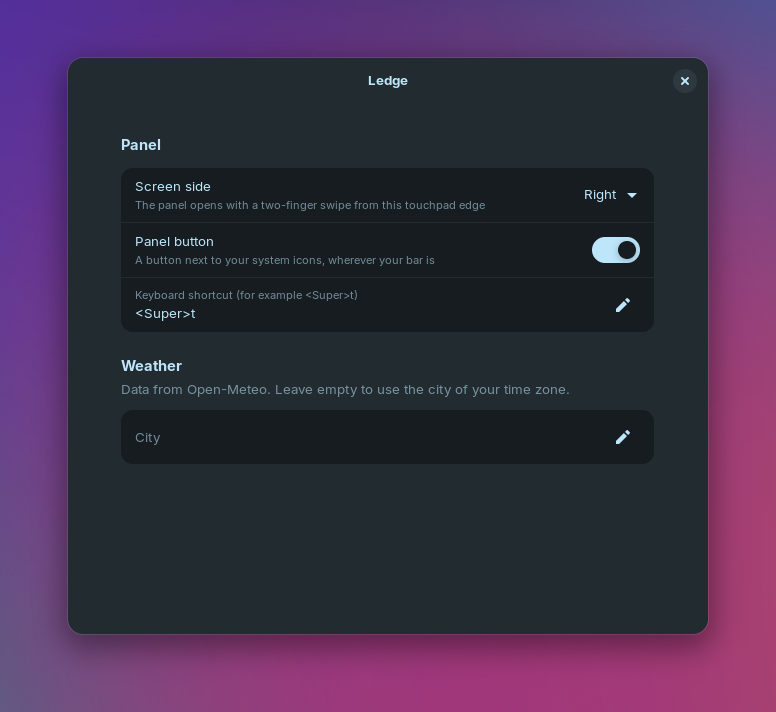
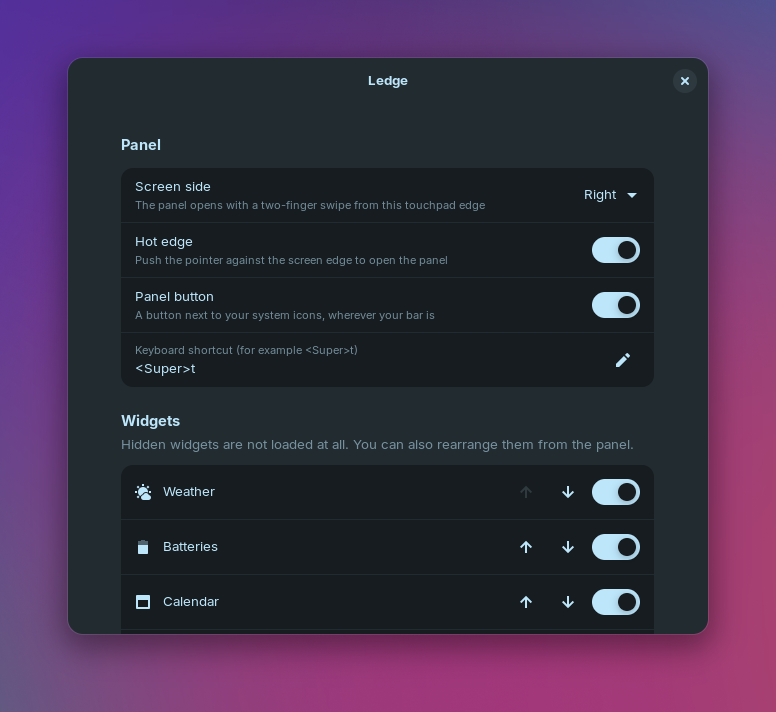
docs: 0.4 features, edit-mode screenshot, headless image capture
Screenshots now come from a headless shell (scriptable pointer, nothing
on screen) with a private PipeWire, so the developer's live microphone
indicator no longer leaks into the images. Edit mode is captured with
animations off to avoid mid-wiggle ghosting.

diff --git a/tools/screenshots/capture.py b/tools/screenshots/capture.py
@@ -1,4 +1,4 @@
-"""Drives nested GNOME Shell sessions and writes the README images.
+"""Drives headless GNOME Shell sessions and writes the README images.
 Run through tools/screenshots/run.sh, which sets up the isolated profile."""
 
 import math
@@ -36,6 +36,20 @@ def emit(name, fmt=None, *args):
     bus.flush_sync(None)
 
 
+def targets():
+    reply = bus.call_sync("org.gnome.Shell", "/io/github/gabrielgirardi/Ledge/Dev",
+                          "io.github.gabrielgirardi.Ledge.DevQuery1", "GetState", None,
+                          GLib.VariantType("(s)"), Gio.DBusCallFlags.NONE, 5000, None)
+    import json
+    return json.loads(reply.unpack()[0])["targets"]
+
+
+def click(name):
+    x, y, _w, _h = targets()[name]
+    emit("Click", "(ii)", x, y)
+    time.sleep(0.8)
+
+
 def shot(name):
     path = raw / f"{name}.png"
     path.unlink(missing_ok=True)
@@ -61,16 +75,23 @@ def wayland_sockets():
 
 def start_shell(lang):
     before = wayland_sockets()
+    # A private PipeWire directory keeps the developer's real audio devices
+    # (and a live microphone indicator) out of the images.
+    pipewire = work / "pipewire"
+    pipewire.mkdir(exist_ok=True)
     env = dict(os.environ, LANGUAGE=lang, LC_ALL=f"{lang}.UTF-8", LEDGE_DEV="1",
+               PIPEWIRE_RUNTIME_DIR=str(pipewire), PULSE_RUNTIME_PATH=str(pipewire),
                MUTTER_DEBUG_DUMMY_MODE_SPECS=f"{W}x{H}")
-    shell = subprocess.Popen(["gnome-shell", "--nested", "--wayland"], env=env,
+    # Headless, not nested: the pointer is ours to move, and no window
+    # appears on the developer's screen.
+    shell = subprocess.Popen(["gnome-shell", "--headless", "--wayland", "--virtual-monitor", f"{W}x{H}"], env=env,
                              stdout=subprocess.DEVNULL, stderr=open(work / f"shell-{lang}.log", "w"))
     for _ in range(120):
         time.sleep(0.5)
         info = subprocess.run(["gnome-extensions", "info", UUID], capture_output=True, text=True).stdout
         if "State: ACTIVE" in info:
             # D-Bus-activated apps (the preferences window) must open on the
-            # nested display, not on the session the script was started from.
+            # headless display, not on the session the script was started from.
             socket = sorted(wayland_sockets() - before)[-1]
             subprocess.run(["dbus-update-activation-environment", f"WAYLAND_DISPLAY={socket}", "DISPLAY="],
                            check=True)
@@ -127,8 +148,18 @@ try:
     # English, right edge: hero, gesture animation, preferences.
     gset("org.gnome.shell.extensions.ledge", "side", "'right'", ledge=True)
     shell = start_shell("en_US")
-    show(1, 1.5)
+    emit("Toggle")
+    time.sleep(2)
     hero = shot("hero")
+    # A still frame of edit mode: mid-wiggle captures show ghosted cards.
+    gset("org.gnome.desktop.interface", "enable-animations", "false")
+    click("edit")
+    time.sleep(0.8)
+    editing = shot("edit")
+    gset("org.gnome.desktop.interface", "enable-animations", "true")
+    emit("Key", "(u)", 65307)  # leave edit mode
+    time.sleep(0.6)
+    show(1, 0.5)
     frames, durations = [], []
     for p, ms in gesture_curve():
         show(p, 0.03)
@@ -153,6 +184,7 @@ finally:
 
 hero.save(images / "hero.jpg", quality=90, optimize=True, progressive=True)
 hero.crop((W - 470, 0, W, H)).save(images / "panel.png", optimize=True)
+editing.crop((W - 470, 0, W, H)).save(images / "edit-mode.png", optimize=True)
 left.crop((0, 0, 470, H)).save(images / "left-pt-br.png", optimize=True)
 
 box = ImageChops.difference(prefs_full, desktop).getbbox()

diff --git a/README.md b/README.md
@@ -45,8 +45,9 @@ Swipe in from the touchpad edge and the panel follows your fingers. Let go
 past halfway, or flick quickly, and a spring finishes the motion. Swipe back,
 press <kbd>Esc</kbd>, or click anywhere outside the panel to close it.
 
-You can also press <kbd>Super</kbd>+<kbd>T</kbd> or click the Ledge button next to your
-system icons. The panel opens on the screen you are using.
+No touchpad, or no visible bar? Push the pointer against the screen edge, press
+<kbd>Super</kbd>+<kbd>T</kbd>, or click the Ledge button next to your system icons. The
+panel opens on the screen you are using.
 
 ## What's inside
 
@@ -86,6 +87,17 @@ time are not counted.
 </td>
 </tr>
 </table>
+
+### Make it yours
+
+Click the pencil in the panel's corner. The cards start to wiggle. Drag a card
+to move it, tap <kbd>−</kbd> to hide it, and bring it back from **Add widgets**.
+On the keyboard, focus a card and press <kbd>↑</kbd> or <kbd>↓</kbd>. A hidden
+widget is not loaded at all, so it costs nothing.
+
+<div align="center">
+<img src="docs/images/edit-mode.png" alt="Edit mode: cards wiggle, each with a red minus button, and a Done button in the corner" width="300">
+</div>
 
 <table>
 <tr>
@@ -139,7 +151,9 @@ ledge@gabrielgirardi.github.io`, or open the Extensions app.
 | Setting | Default | Notes |
 |---|---|---|
 | Screen side | Right | Only a swipe from this touchpad edge opens the panel. |
+| Hot edge | On | Push the pointer against the screen edge to open the panel. Never fires in fullscreen apps or while dragging. |
 | Panel button | On | Sits next to your system icons, wherever your bar is. |
+| Widgets | All six | Choose and order them here, or with the pencil in the panel. |
 | Keyboard shortcut | `<Super>t` | Any GTK accelerator, for example `<Super><Shift>d`. |
 | Weather city | Empty | When empty, Ledge uses the city of your time zone. For example, `America/Sao_Paulo` gives São Paulo. |
 
@@ -196,7 +210,8 @@ state machine, and how the glass is rendered.
 - [x] Keyboard shortcut, panel button, settings button, left or right edge
 - [x] English and Brazilian Portuguese
 - [x] Opens on the active monitor
-- [ ] **0.4:** a hot edge (push the pointer against the screen edge), and choosing, reordering, and editing widgets
+- [x] Hot edge, edit mode, and choosing and ordering widgets
+- [x] UI regression tests on GNOME Shell, in CI
 - [ ] **0.5:** GNOME Shell 47, 48, and 49
 - [ ] **0.6:** more widgets: phone battery (GSConnect), system stats, world clocks, reminders
 - [ ] **0.7:** extensions.gnome.org, AUR, Fedora COPR, `.deb`, and a Rust helper

diff --git a/docs/ARCHITECTURE.md b/docs/ARCHITECTURE.md
@@ -125,6 +125,42 @@ painting, to that page. The result: the right ~38 px of every row was drawn
 but ignored clicks. Use the `Pick` development hook to check hit-testing after
 any layout change.
 
+A related trap: when the panel's content is taller than the screen, GNOME 46
+lays it out at *minimum* heights, and a nested scroll view's minimum is next to
+nothing. The to-do list pins its `min_height` to its rows (up to its cap), so
+the panel scrolls instead of squeezing the list.
+
+### Hot edge
+
+`Layout.PressureBarrier` with one `Meta.Barrier` per monitor on the configured
+edge, only where that edge is the edge of the whole screen. A barrier on an
+edge shared with another monitor would stop the pointer from crossing. The
+barriers stop 48 px short of the corners. An event filter ignores pushes while
+a mouse button is held (drag and drop) or on a monitor running something
+fullscreen. The barriers are rebuilt when the monitors, the side, or the
+setting change.
+
+### Widgets and edit mode
+
+The `widgets` setting is the source of truth: shown widget ids, in order.
+`widgets/catalog.js` lists the known widgets for both the panel and the
+preferences. It imports nothing from GNOME Shell, because the preferences run
+in a separate GTK process. `_syncWidgets()` diffs the setting against the live
+widgets. It destroys removed ones (a hidden widget makes no D-Bus or network
+calls), creates added ones, and reorders the rest without rebuilding them.
+
+Edit mode (`editMode.js`) only ever writes that setting. While it is active,
+the panel forwards its captured events to it first:
+
+- A press on a card starts a drag instead of reaching the card's controls.
+  Cards are made reactive so the press does not pick the scroll view behind
+  them.
+- Motion moves the card under the pointer and reorders it live.
+- Release writes the new order.
+
+There is no `Clutter.DragAction` in GNOME 46, so dragging is built on the
+panel's existing modal grab.
+
 ### Height
 
 The panel sizes to its content, up to the room between GNOME's panel and the

diff --git a/CHANGELOG.md b/CHANGELOG.md
@@ -7,6 +7,25 @@ and this project adheres to [Semantic Versioning](https://semver.org/spec/v2.0.0
 
 ## [Unreleased]
 
+### Added
+
+- Hot edge: push the pointer against the screen edge to open the panel. Edges
+  between two monitors are left free. It never fires in fullscreen apps or
+  while a mouse button is held, and it can be turned off (#3).
+- Choose, order, and hide widgets in the preferences. A hidden widget is not
+  loaded at all (#5).
+- Edit mode: the pencil in the panel makes the cards wiggle. Drag to reorder,
+  <kbd>↑</kbd>/<kbd>↓</kbd> on a focused card, <kbd>−</kbd> to hide, and an
+  "Add widgets" tray to bring hidden ones back. <kbd>Esc</kbd> leaves edit
+  mode before it closes the panel (#6).
+- UI regression tests (`tests/ui`) that drive a headless GNOME Shell, run in
+  CI on every push and pull request.
+
+### Fixed
+
+- To-do: on a screen shorter than the panel, the list was squeezed to a row or
+  two instead of the panel scrolling.
+
 ## [0.3.1] - 2026-11-05
 
 ### Fixed

diff --git a/CONTRIBUTING.md b/CONTRIBUTING.md
@@ -64,6 +64,8 @@ grep ledge-state "$XDG_RUNTIME_DIR/ledge-nested/shell.log"
 | `Show P` | Pins the panel at a position from 0 (closed) to 1 (open) |
 | `Click X Y`, `Scroll X Y STEPS` | Real pointer events, through the same path as a mouse |
 | `Warp X Y` | Moves the pointer, which decides the active monitor |
+| `Push DX STEPS` | Relative pointer motion, for the hot edge |
+| `Drag X Y DY STEPS` | Press, move, release, for edit mode |
 | `Pick X Y` | Logs the actor under a point and its parents. Use it when a click does not land where you expect. |
 | `Key KEYVAL`, `Type TEXT` | Real key events. `65307` is Escape; `\n` in the text presses Return. |
 | `Shot PATH` | Saves a PNG of the whole stage |
